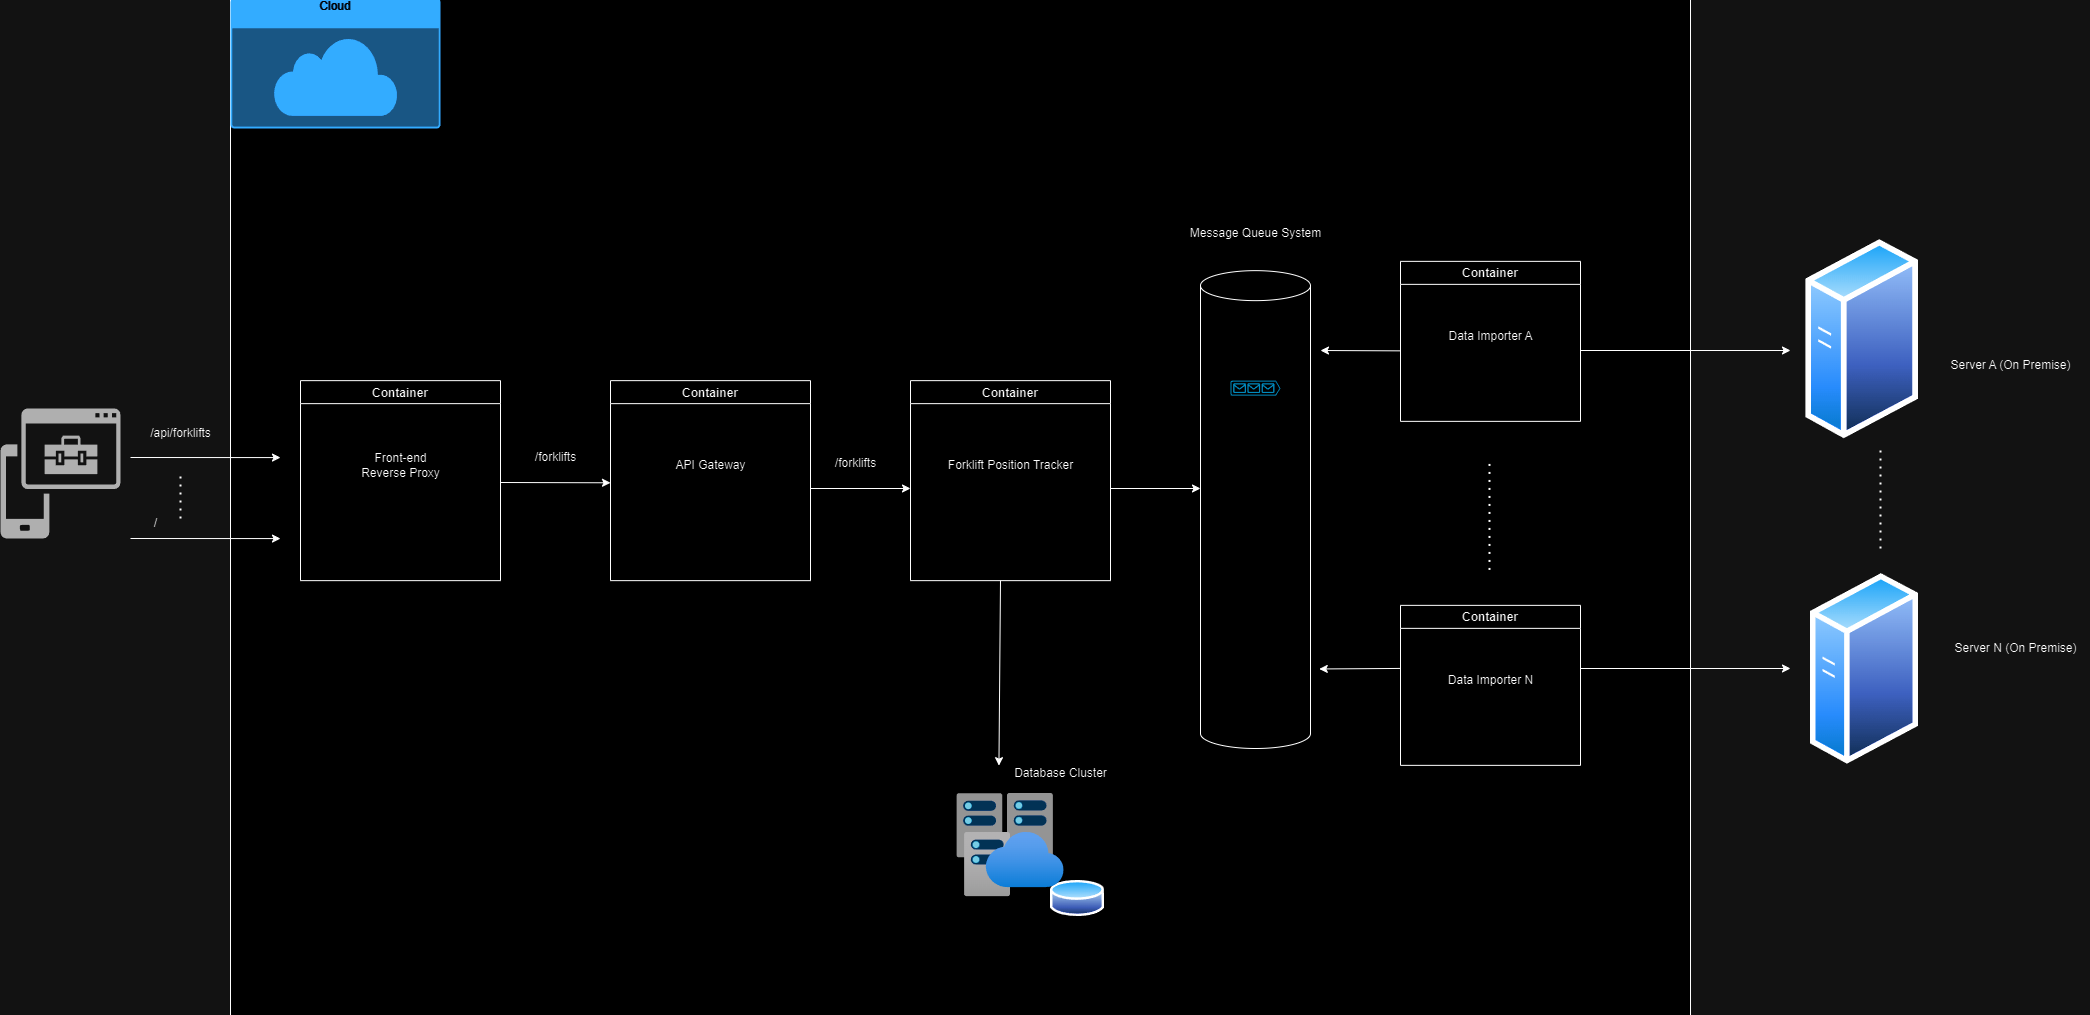
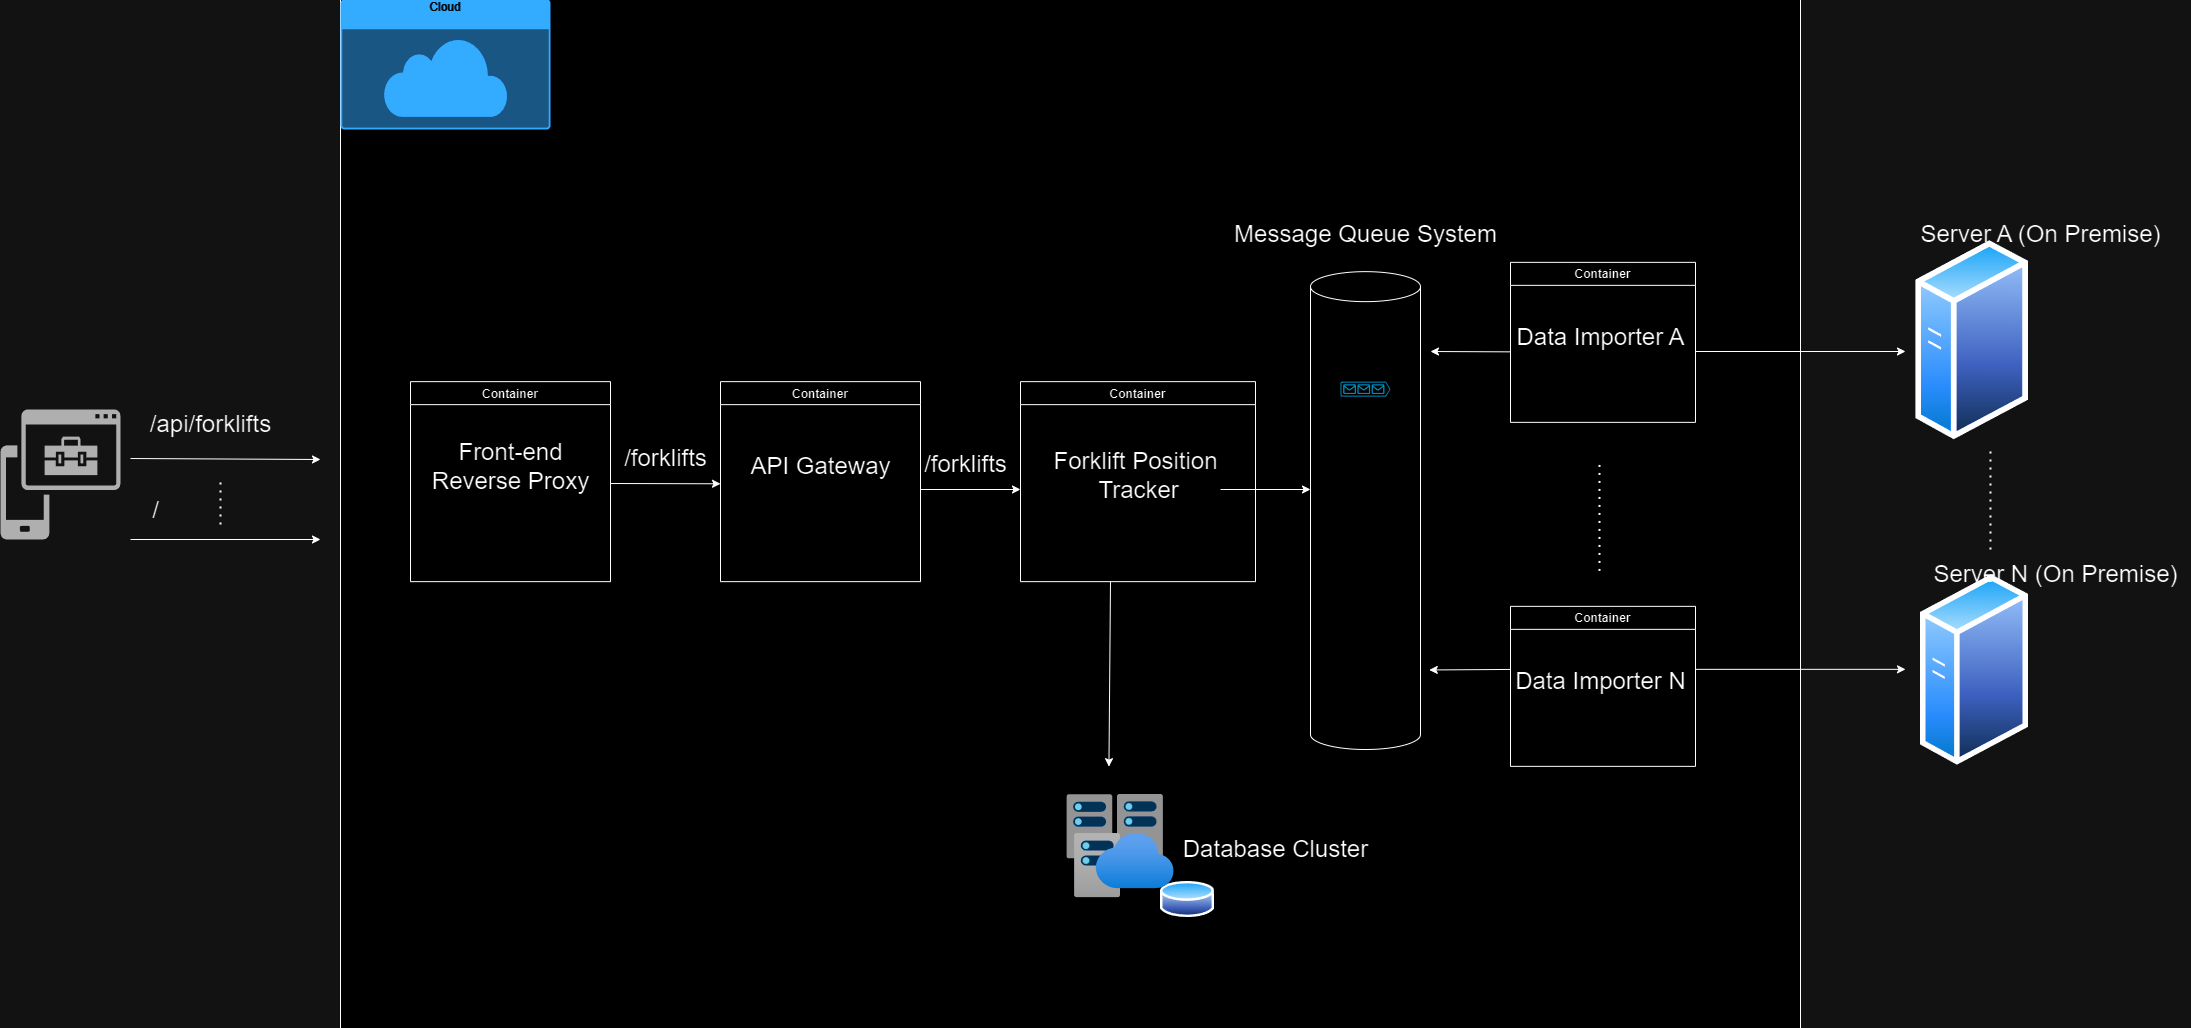
Bigger fonts on Architecture Diagram.

diff --git a/README.md b/README.md
@@ -11,11 +11,12 @@ be deployed into a variety of infrastructure either physical on premise servers 
 infrastructure service provider (AWS, Azure, Digital Ocean, and so on).
 
 The rationale of choosing a distributed architecture is to think ahead into the future with
-horizontal scalability in mind so that the overall platform is able to handle
-a larger number of devices and users concurrently as both end user and forklift traffic increases
-along with potentially increasing amount of incoming data, in preparation for when the fleet
-of forklifts were to increase. The architectural design has in mind that our software solution
-will not be the bottleneck for data ingestion.
+horizontal scalability in mind and flexibility for future expansion inn the form of new features rollout,
+so that the overall platform is able to handle a larger number of devices and users concurrently
+as both end user and forklift traffic increases along with potentially increasing amount of
+incoming data, in preparation for when the fleet of forklifts were to increase.
+This architectural design shares the vision that our software solution will not become the bottleneck
+for data ingestion.
 
 A modern queue system such as Apache ActiveMQ or the more advanced Apache Kafka can further be used as 
 a means to decouple the process of data ingestion (position + metadata from the forklifts) using 
